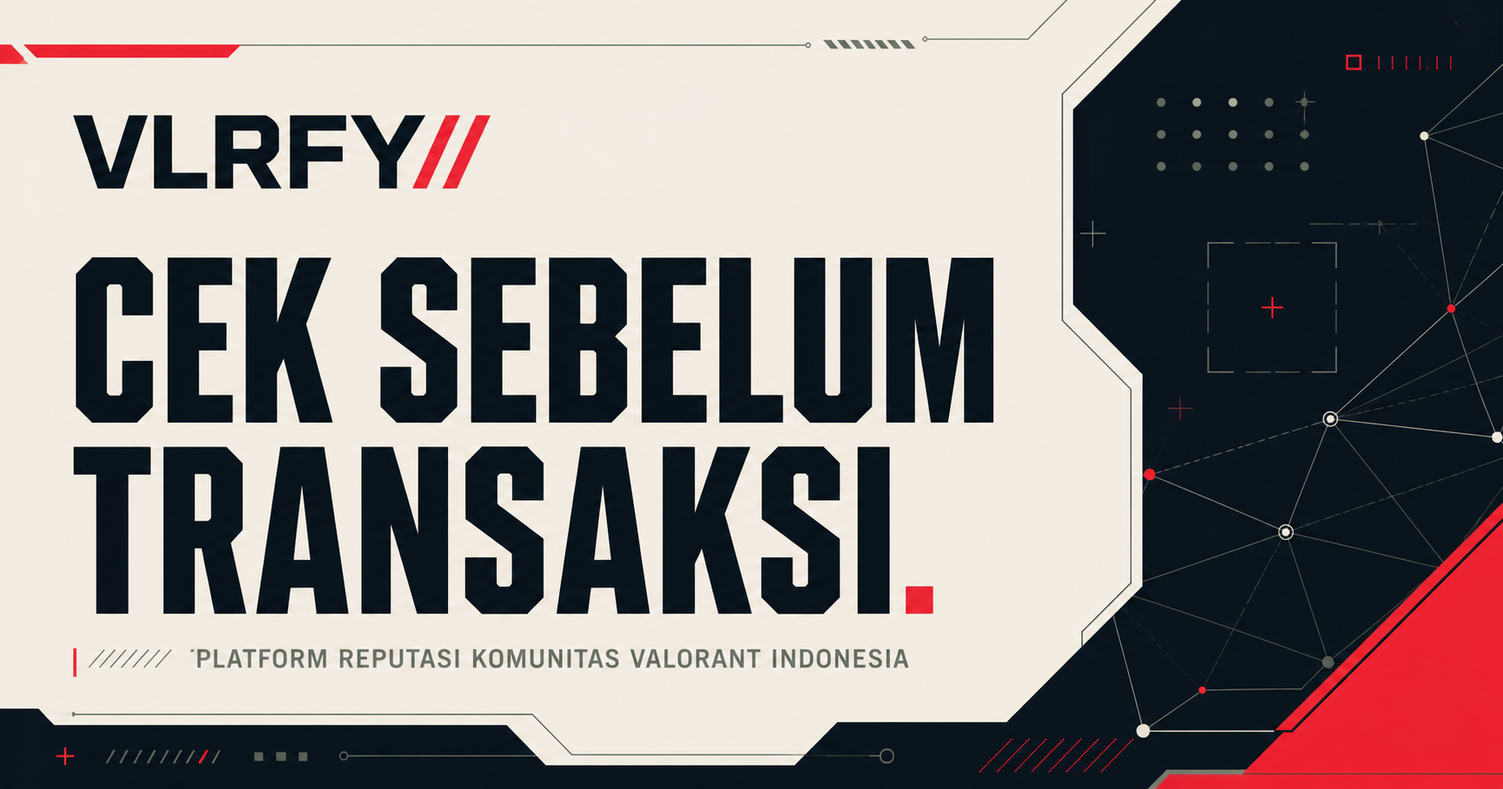
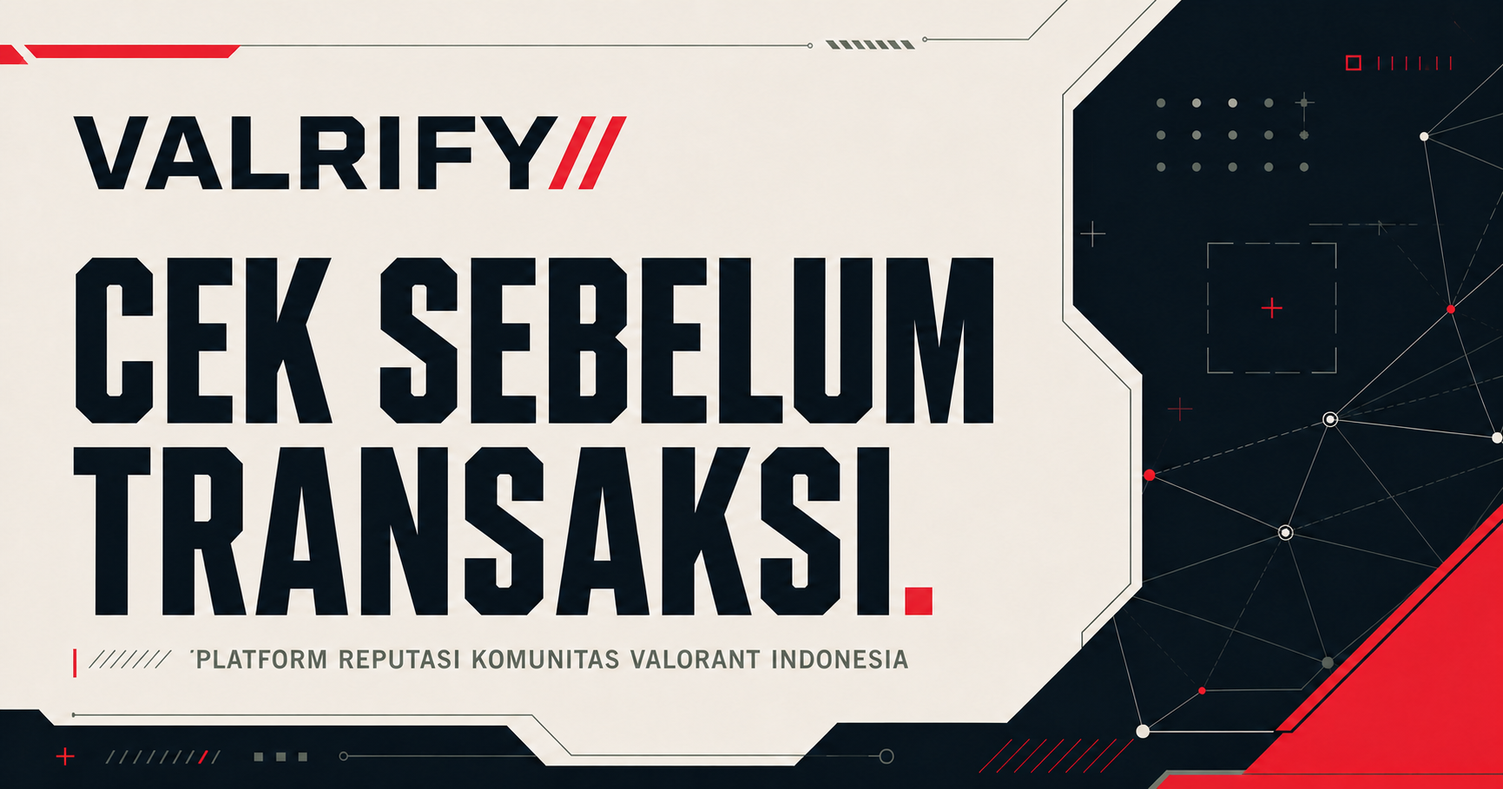
chore: rebrand VLRFY to Valrify

diff --git a/apps/api/test/rbac.test.ts b/apps/api/test/rbac.test.ts
@@ -1,1 +1,1 @@
-import assert from "node:assert/strict";import test from "node:test";import {BadRequestException} from "@nestjs/common";import {canModerate,canTransition} from "@vlrfy/domain";import {confirmationReviewSchema,confirmationSchema,reportSchema} from "@vlrfy/validation";import {parseSchema} from "../src/validation/parse-schema";test("moderation roles and publish lifecycle",()=>{assert.equal(canModerate("USER"),false);assert.equal(canModerate("ADMIN"),true);assert.equal(canTransition("SUBMITTED","PUBLISHED"),false);assert.equal(canTransition("VERIFIED","PUBLISHED"),true)});test("successful transaction input is constrained",()=>{assert.equal(confirmationSchema.safeParse({entityId:1,transactionDate:"2026-08-20",amount:300000,note:"Transaksi demo berhasil."}).success,true);assert.equal(confirmationSchema.safeParse({entityId:1,transactionDate:"bad",amount:-1,note:"pendek"}).success,false)});test("reports accept multiple account identifiers",()=>{const result=reportSchema.safeParse({entityName:"Seller Demo",title:"Akun tidak dikirim",chronology:"Kronologi transaksi ini cukup panjang untuk memenuhi validasi laporan dan menjelaskan kejadian secara lengkap.",identifiers:JSON.stringify([{type:"PHONE",value:"081234567890"},{type:"BANK_ACCOUNT",value:"1234567890",provider:"BCA"}]),transactionDate:"2026-08-20",allegedLoss:"1000000",transactionType:"ACCOUNT_PURCHASE"});assert.equal(result.success,true);if(result.success)assert.equal(result.data.identifiers.length,2)});test("schema errors become HTTP 400",()=>{assert.throws(()=>parseSchema(confirmationReviewSchema,{decision:"APPROVE",rationale:"x"}),(error)=>error instanceof BadRequestException&&error.getStatus()===400)});
+import assert from "node:assert/strict";import test from "node:test";import {BadRequestException} from "@nestjs/common";import {canModerate,canTransition} from "@valrify/domain";import {confirmationReviewSchema,confirmationSchema,reportSchema} from "@valrify/validation";import {parseSchema} from "../src/validation/parse-schema";test("moderation roles and publish lifecycle",()=>{assert.equal(canModerate("USER"),false);assert.equal(canModerate("ADMIN"),true);assert.equal(canTransition("SUBMITTED","PUBLISHED"),false);assert.equal(canTransition("VERIFIED","PUBLISHED"),true)});test("successful transaction input is constrained",()=>{assert.equal(confirmationSchema.safeParse({entityId:1,transactionDate:"2026-08-20",amount:300000,note:"Transaksi demo berhasil."}).success,true);assert.equal(confirmationSchema.safeParse({entityId:1,transactionDate:"bad",amount:-1,note:"pendek"}).success,false)});test("reports accept multiple account identifiers",()=>{const result=reportSchema.safeParse({entityName:"Seller Demo",title:"Akun tidak dikirim",chronology:"Kronologi transaksi ini cukup panjang untuk memenuhi validasi laporan dan menjelaskan kejadian secara lengkap.",identifiers:JSON.stringify([{type:"PHONE",value:"081234567890"},{type:"BANK_ACCOUNT",value:"1234567890",provider:"BCA"}]),transactionDate:"2026-08-20",allegedLoss:"1000000",transactionType:"ACCOUNT_PURCHASE"});assert.equal(result.success,true);if(result.success)assert.equal(result.data.identifiers.length,2)});test("schema errors become HTTP 400",()=>{assert.throws(()=>parseSchema(confirmationReviewSchema,{decision:"APPROVE",rationale:"x"}),(error)=>error instanceof BadRequestException&&error.getStatus()===400)});

diff --git a/apps/web/app/search/page.tsx b/apps/web/app/search/page.tsx
@@ -1,5 +1,5 @@
 import Link from "next/link";
-import { labelIdentifierType } from "@vlrfy/domain";
+import { labelIdentifierType } from "@valrify/domain";
 import { searchPublic } from "../../lib/api";
 import { Disclaimer, Footer, Header } from "../components/SiteChrome";
 import { RiskBadge } from "../components/RiskBadge";
@@ -12,7 +12,7 @@ export default async function SearchPage({ searchParams }: { searchParams: Promi
   return <><Header compact/><main className="page shell">
     <p className="eyebrow">// CEK SEBELUM TRANSAKSI</p><h1 className="page-title">CEK NOMOR ATAU AKUN.</h1>
     <form action="/search" className="page-search"><label className="sr-only" htmlFor="search-q">Masukkan nomor atau akun</label><input id="search-q" name="q" defaultValue={q} placeholder="Nomor, rekening, Discord, Facebook, Riot ID..." required/><button>CEK SEKARANG ↗</button></form>
-    {q&&<section className="results"><p className="result-query">HASIL UNTUK <strong>“{q}”</strong></p>{results.length===0?<div className="empty-state"><span>00</span><h2>BELUM ADA CATATAN.</h2><p>Nomor atau akun ini belum ditemukan di VLRFY. Bukan berarti pasti aman—tetap cek identitas dan pakai rekber kalau perlu.</p><Link href="/submit" className="tactical-button">BUAT LAPORAN</Link></div>:results.map((result)=><article className="result-card" key={`${result.identifierId}-${result.entityId}`}><div><p className="panel-index">DATA COCOK · {labelIdentifierType(result.type)}</p><h2>{result.displayName}</h2><p className="matched-id">{result.maskedValue}</p></div><RiskBadge count={Number(result.reportCount)}/><div className="result-metrics"><div className="result-meta"><strong>{result.reportCount}</strong><span>LAPORAN SUDAH DICEK</span></div><div className="result-meta positive"><strong>{result.successfulTransactionCount}</strong><span>TESTI TRANSAKSI</span></div></div><Link className="card-link" href={`/entity/${result.slug}`}>BUKA PROFIL ↗</Link></article>)}</section>}
+    {q&&<section className="results"><p className="result-query">HASIL UNTUK <strong>“{q}”</strong></p>{results.length===0?<div className="empty-state"><span>00</span><h2>BELUM ADA CATATAN.</h2><p>Nomor atau akun ini belum ditemukan di Valrify. Bukan berarti pasti aman—tetap cek identitas dan pakai rekber kalau perlu.</p><Link href="/submit" className="tactical-button">BUAT LAPORAN</Link></div>:results.map((result)=><article className="result-card" key={`${result.identifierId}-${result.entityId}`}><div><p className="panel-index">DATA COCOK · {labelIdentifierType(result.type)}</p><h2>{result.displayName}</h2><p className="matched-id">{result.maskedValue}</p></div><RiskBadge count={Number(result.reportCount)}/><div className="result-metrics"><div className="result-meta"><strong>{result.reportCount}</strong><span>LAPORAN SUDAH DICEK</span></div><div className="result-meta positive"><strong>{result.successfulTransactionCount}</strong><span>TESTI TRANSAKSI</span></div></div><Link className="card-link" href={`/entity/${result.slug}`}>BUKA PROFIL ↗</Link></article>)}</section>}
     <Disclaimer/>
   </main><Footer/></>;
 }

diff --git a/apps/web/app/case/[publicId]/page.tsx b/apps/web/app/case/[publicId]/page.tsx
@@ -1,4 +1,4 @@
-import type { Metadata } from "next";import Link from "next/link";import { notFound } from "next/navigation";import { Header,Footer,Disclaimer } from "../../components/SiteChrome";import { formatRupiah,labelIdentifierType } from "@vlrfy/domain";import { getPublicCase } from "../../../lib/api";
+import type { Metadata } from "next";import Link from "next/link";import { notFound } from "next/navigation";import { Header,Footer,Disclaimer } from "../../components/SiteChrome";import { formatRupiah,labelIdentifierType } from "@valrify/domain";import { getPublicCase } from "../../../lib/api";
 export const dynamic="force-dynamic";
-export async function generateMetadata({params}:{params:Promise<{publicId:string}>}):Promise<Metadata>{const{publicId}=await params;const r=await getPublicCase(publicId);if(!r)return{title:'Laporan tidak ditemukan'};const description=String(r.publicSummary);return{title:`Case ${r.publicId}`,description,openGraph:{title:`Case ${r.publicId} — VLRFY`,description,images:[]},twitter:{card:'summary',title:`Case ${r.publicId} — VLRFY`,description,images:[]}}}
+export async function generateMetadata({params}:{params:Promise<{publicId:string}>}):Promise<Metadata>{const{publicId}=await params;const r=await getPublicCase(publicId);if(!r)return{title:'Laporan tidak ditemukan'};const description=String(r.publicSummary);return{title:`Case ${r.publicId}`,description,openGraph:{title:`Case ${r.publicId} — Valrify`,description,images:[]},twitter:{card:'summary',title:`Case ${r.publicId} — Valrify`,description,images:[]}}}
 export default async function CasePage({params}:{params:Promise<{publicId:string}>}){const{publicId}=await params;const r=await getPublicCase(publicId);if(!r)notFound();return <><Header compact/><main className="page shell"><div className="case-heading"><div><p className="eyebrow">LAPORAN // {String(r.publicId)}</p><h1 className="page-title">{String(r.title).toUpperCase()}</h1></div><span className="status-badge">SUDAH DICEK ADMIN</span></div><section className="case-layout"><article className="case-body"><p className="panel-index">CERITA SINGKAT</p><p className="summary">{String(r.publicSummary)}</p><p className="source-line">DIKIRIM PENGGUNA · NAMA PELAPOR DISEMBUNYIKAN</p></article><aside className="case-facts"><div><span>STATUS</span><strong>TAYANG</strong></div><div><span>TANGGAL KEJADIAN</span><strong>{String(r.transactionDate||'Tidak dicantumkan')}</strong></div><div><span>UANG YANG DILAPORKAN HILANG</span><strong>{formatRupiah(Number(r.allegedLoss))}</strong></div><div><span>AKUN TERKAIT</span><Link href={`/entity/${r.slug}`}>{String(r.entityName)} ↗</Link></div></aside></section><section className="data-panel case-identifiers"><h2>NOMOR / AKUN TERKAIT</h2>{(r.identifiers as Array<{type:string;maskedValue:string}>).map((id,i)=><div className="identifier-row" key={i}><span>{labelIdentifierType(id.type)}</span><strong>{id.maskedValue}</strong></div>)}</section><Disclaimer/></main><Footer/></>}

diff --git a/apps/api/src/database/seed.ts b/apps/api/src/database/seed.ts
@@ -2,7 +2,7 @@ import { hash } from "bcryptjs";
 import { and, eq } from "drizzle-orm";
 import { drizzle } from "drizzle-orm/node-postgres";
 import { Pool } from "pg";
-import { maskIdentifier, normalizeIdentifier } from "@vlrfy/domain";
+import { maskIdentifier, normalizeIdentifier } from "@valrify/domain";
 import {
   entities,
   entityIdentifiers,
@@ -19,12 +19,12 @@ async function seed() {
   const pool = new Pool({
     connectionString:
       process.env.DATABASE_URL ??
-      "postgresql://vlrfy:vlrfy_dev@localhost:5434/vlrfy",
+      "postgresql://valrify:valrify_dev@localhost:5434/valrify",
   });
   const db = drizzle(pool);
-  const adminEmail = process.env.VLRFY_ADMIN_EMAIL ?? "admin@vlrfy.local";
+  const adminEmail = process.env.VALRIFY_ADMIN_EMAIL ?? "admin@valrify.local";
   const passwordHash = await hash(
-    process.env.VLRFY_DEMO_PASSWORD ?? "DemoPass!2026",
+    process.env.VALRIFY_DEMO_PASSWORD ?? "DemoPass!2026",
     12,
   );
 
@@ -34,14 +34,14 @@ async function seed() {
       {
         id: "demo-admin",
         email: adminEmail,
-        displayName: "Admin VLRFY",
+        displayName: "Admin Valrify",
         passwordHash,
         role: "ADMIN",
         emailVerifiedAt: new Date(),
       },
       {
         id: "demo-reporter",
-        email: "reporter.demo@vlrfy.invalid",
+        email: "reporter.demo@valrify.invalid",
         displayName: "Anggota Demo",
         role: "USER",
         emailVerifiedAt: new Date(),
@@ -53,7 +53,7 @@ async function seed() {
     .insert(users)
     .values({
       id: "demo-tester",
-      email: "tester@vlrfy.local",
+      email: "tester@valrify.local",
       displayName: "User Tester",
       passwordHash,
       role: "USER",
@@ -75,7 +75,7 @@ async function seed() {
       slug: "arkanusa-demo",
       displayName: "ArkaNusa Demo",
       description:
-        "Profil fiktif untuk demonstrasi data pengembangan VLRFY.",
+        "Profil fiktif untuk demonstrasi data pengembangan Valrify.",
     })
     .onConflictDoNothing();
   const entity = (
@@ -87,7 +87,7 @@ async function seed() {
     { type: "PERSON_NAME" as const, rawValue: "ArkaNusa Demo" },
     { type: "PHONE" as const, rawValue: "0800 0000 0901" },
     { type: "DISCORD" as const, rawValue: "arkanusa.demo" },
-    { type: "RIOT_ID" as const, rawValue: "ArkaDemo#VLRFY" },
+    { type: "RIOT_ID" as const, rawValue: "ArkaDemo#VALRIFY" },
   ];
   const identifierRows: Array<typeof identifiers.$inferSelect> = [];
   for (const item of demoIdentifiers) {
@@ -185,7 +185,7 @@ async function seed() {
   }
 
   await pool.end();
-  console.log("VLRFY fictional seed ready");
+  console.log("Valrify fictional seed ready");
 }
 
 seed().catch((error) => {

diff --git a/apps/api/src/auth/auth.controller.ts b/apps/api/src/auth/auth.controller.ts
@@ -1,8 +1,8 @@
-import { Body,Controller,Get,HttpCode,Post,Req,Res,UseGuards } from "@nestjs/common";import type { Request,Response } from "express";import { loginSchema,registerSchema } from "@vlrfy/validation";import { parseSchema } from "../validation/parse-schema";import { AuthService } from "./auth.service";import { CurrentActor } from "./current-actor";import { JwtAuthGuard } from "./jwt-auth.guard";import type { AuthActor } from "./auth.types";
+import { Body,Controller,Get,HttpCode,Post,Req,Res,UseGuards } from "@nestjs/common";import type { Request,Response } from "express";import { loginSchema,registerSchema } from "@valrify/validation";import { parseSchema } from "../validation/parse-schema";import { AuthService } from "./auth.service";import { CurrentActor } from "./current-actor";import { JwtAuthGuard } from "./jwt-auth.guard";import type { AuthActor } from "./auth.types";
 const cookieOptions=()=>({httpOnly:true,secure:process.env.NODE_ENV==="production",sameSite:"lax" as const,path:"/",maxAge:7*24*60*60*1000});
 @Controller("auth")export class AuthController{constructor(private readonly auth:AuthService){}
 @Post("register")register(@Body()body:unknown){return this.auth.register(parseSchema(registerSchema,body));}
 @Post("verify-email")verify(@Body()body:{token?:string}){return this.auth.verifyEmail(String(body.token??""));}
-@Post("login")@HttpCode(200)async login(@Body()body:unknown,@Res({passthrough:true})response:Response){const result=await this.auth.login(parseSchema(loginSchema,body));response.cookie("vlrfy_session",result.token,cookieOptions());return{user:result.actor};}
-@Post("logout")@HttpCode(200)logout(@Res({passthrough:true})response:Response){response.clearCookie("vlrfy_session",{path:"/"});return{ok:true};}
+@Post("login")@HttpCode(200)async login(@Body()body:unknown,@Res({passthrough:true})response:Response){const result=await this.auth.login(parseSchema(loginSchema,body));response.cookie("valrify_session",result.token,cookieOptions());return{user:result.actor};}
+@Post("logout")@HttpCode(200)logout(@Res({passthrough:true})response:Response){response.clearCookie("valrify_session",{path:"/"});return{ok:true};}
 @Get("me")@UseGuards(JwtAuthGuard)me(@CurrentActor()actor:AuthActor,@Req()_request:Request){return{user:actor};}}

diff --git a/apps/api/src/auth/auth.service.ts b/apps/api/src/auth/auth.service.ts
@@ -1,4 +1,4 @@
-import { BadRequestException, Injectable, UnauthorizedException } from "@nestjs/common";import { JwtService } from "@nestjs/jwt";import { and,eq,gt } from "drizzle-orm";import { compare,hash } from "bcryptjs";import { createHash,randomBytes,randomUUID } from "node:crypto";import { DatabaseService } from "../database/database.service";import { emailVerificationTokens,users } from "../database/schema";import type { LoginInput,RegisterInput } from "@vlrfy/validation";import type { AuthActor } from "./auth.types";
+import { BadRequestException, Injectable, UnauthorizedException } from "@nestjs/common";import { JwtService } from "@nestjs/jwt";import { and,eq,gt } from "drizzle-orm";import { compare,hash } from "bcryptjs";import { createHash,randomBytes,randomUUID } from "node:crypto";import { DatabaseService } from "../database/database.service";import { emailVerificationTokens,users } from "../database/schema";import type { LoginInput,RegisterInput } from "@valrify/validation";import type { AuthActor } from "./auth.types";
 const tokenHash=(token:string)=>createHash("sha256").update(token).digest("hex");
 @Injectable()export class AuthService{constructor(private readonly database:DatabaseService,private readonly jwt:JwtService){}
 async register(input:RegisterInput){const email=input.email.toLowerCase();const existing=await this.database.db.query.users.findFirst({where:eq(users.email,email)});if(existing)throw new BadRequestException("Email sudah terdaftar.");const id=randomUUID();const passwordHash=await hash(input.password,12);await this.database.db.insert(users).values({id,email,displayName:input.displayName,passwordHash});const token=randomBytes(32).toString("hex");await this.database.db.insert(emailVerificationTokens).values({userId:id,tokenHash:tokenHash(token),expiresAt:new Date(Date.now()+24*60*60*1000)});return{message:"Akun dibuat. Verifikasi email sebelum masuk.",...(process.env.NODE_ENV!=="production"?{developmentVerificationToken:token}:{})};}

diff --git a/apps/web/app/components/SiteChrome.tsx b/apps/web/app/components/SiteChrome.tsx
@@ -2,7 +2,7 @@ import Link from "next/link";
 import { SessionNav } from "./SessionNav";
 
 export function Header({ compact=false }:{compact?:boolean}) {
-  return <header className={`site-header shell ${compact?"compact":""}`}><Link className="wordmark" href="/" aria-label="VLRFY beranda">VLRFY<span>{"//"}</span></Link><nav aria-label="Navigasi utama"><Link href="/search">CEK</Link><Link href="/methodology">CARA BACA</Link><SessionNav/><Link href="/submit" className="nav-report">LAPORKAN</Link></nav></header>;
+  return <header className={`site-header shell ${compact?"compact":""}`}><Link className="wordmark" href="/" aria-label="Valrify beranda">VALRIFY<span>{"//"}</span></Link><nav aria-label="Navigasi utama"><Link href="/search">CEK</Link><Link href="/methodology">CARA BACA</Link><SessionNav/><Link href="/submit" className="nav-report">LAPORKAN</Link></nav></header>;
 }
-export function Footer(){return <footer className="shell"><div className="wordmark">VLRFY<span>{"//"}</span></div><p>Cek riwayat penjual atau pembeli akun Valorant sebelum transaksi.</p><small>VLRFY by reyv · © 2026</small></footer>}
-export function Disclaimer(){return <aside className="inline-disclaimer"><strong>INGAT</strong><span>VLRFY cuma menampilkan laporan dan testi yang sudah dicek admin. Ini bukan putusan hukum dan bukan jaminan transaksi pasti aman.</span></aside>}
+export function Footer(){return <footer className="shell"><div className="wordmark">VALRIFY<span>{"//"}</span></div><p>Cek riwayat penjual atau pembeli akun Valorant sebelum transaksi.</p><small>Valrify by reyv · © 2026</small></footer>}
+export function Disclaimer(){return <aside className="inline-disclaimer"><strong>INGAT</strong><span>Valrify cuma menampilkan laporan dan testi yang sudah dicek admin. Ini bukan putusan hukum dan bukan jaminan transaksi pasti aman.</span></aside>}

diff --git a/apps/web/app/methodology/page.tsx b/apps/web/app/methodology/page.tsx
@@ -1,2 +1,2 @@
 import {Header,Footer,Disclaimer} from "../components/SiteChrome";
-export default function Methodology(){return <><Header compact/><main className="page shell narrow"><p className="eyebrow">// CARA BACA HASIL</p><h1 className="page-title">ANGKANYA GAMPANG.</h1><p className="page-intro">VLRFY tidak menebak-nebak dan tidak memakai skor rahasia. Tandanya cuma dihitung dari jumlah laporan yang sudah dicek admin lalu ditayangkan.</p><section className="method-list"><article><span>00</span><h2>TIDAK ADA LAPORAN</h2><p>Belum ada laporan yang lolos pengecekan admin. Bukan berarti pasti aman.</p></article><article><span>01</span><h2>PERLU PERHATIAN</h2><p>Ada 1 laporan yang sudah dicek admin. Baca laporannya sebelum lanjut transaksi.</p></article><article><span>02+</span><h2>RISIKO TINGGI</h2><p>Ada 2 laporan atau lebih yang sudah dicek admin. Sebaiknya jangan buru-buru transaksi.</p></article></section><Disclaimer/></main><Footer/></>}
+export default function Methodology(){return <><Header compact/><main className="page shell narrow"><p className="eyebrow">// CARA BACA HASIL</p><h1 className="page-title">ANGKANYA GAMPANG.</h1><p className="page-intro">Valrify tidak menebak-nebak dan tidak memakai skor rahasia. Tandanya cuma dihitung dari jumlah laporan yang sudah dicek admin lalu ditayangkan.</p><section className="method-list"><article><span>00</span><h2>TIDAK ADA LAPORAN</h2><p>Belum ada laporan yang lolos pengecekan admin. Bukan berarti pasti aman.</p></article><article><span>01</span><h2>PERLU PERHATIAN</h2><p>Ada 1 laporan yang sudah dicek admin. Baca laporannya sebelum lanjut transaksi.</p></article><article><span>02+</span><h2>RISIKO TINGGI</h2><p>Ada 2 laporan atau lebih yang sudah dicek admin. Sebaiknya jangan buru-buru transaksi.</p></article></section><Disclaimer/></main><Footer/></>}

diff --git a/apps/api/src/reports/reports.controller.ts b/apps/api/src/reports/reports.controller.ts
@@ -1,3 +1,3 @@
-import { BadRequestException,Body,Controller,Post,UploadedFiles,UseGuards,UseInterceptors } from "@nestjs/common";import { FilesInterceptor } from "@nestjs/platform-express";import { reportSchema } from "@vlrfy/validation";import { CurrentActor } from "../auth/current-actor";import { JwtAuthGuard } from "../auth/jwt-auth.guard";import type { AuthActor } from "../auth/auth.types";import { parseSchema } from "../validation/parse-schema";import { ReportsService } from "./reports.service";
+import { BadRequestException,Body,Controller,Post,UploadedFiles,UseGuards,UseInterceptors } from "@nestjs/common";import { FilesInterceptor } from "@nestjs/platform-express";import { reportSchema } from "@valrify/validation";import { CurrentActor } from "../auth/current-actor";import { JwtAuthGuard } from "../auth/jwt-auth.guard";import type { AuthActor } from "../auth/auth.types";import { parseSchema } from "../validation/parse-schema";import { ReportsService } from "./reports.service";
 const allowed=new Set(["image/png","image/jpeg","image/webp","application/pdf"]);
 @Controller("reports")export class ReportsController{constructor(private readonly reports:ReportsService){}@Post()@UseGuards(JwtAuthGuard)@UseInterceptors(FilesInterceptor("evidence",5,{limits:{fileSize:5*1024*1024},fileFilter:(_req,file,callback)=>callback(allowed.has(file.mimetype)?null:new BadRequestException("Tipe file tidak didukung."),allowed.has(file.mimetype))}))create(@CurrentActor()actor:AuthActor,@Body()body:Record<string,string>,@UploadedFiles()files:Express.Multer.File[]=[]){if(!actor.emailVerified)throw new BadRequestException("Email harus terverifikasi.");if(!files.length)throw new BadRequestException("Minimal satu bukti wajib diunggah.");return this.reports.create(actor.id,parseSchema(reportSchema,body),files);}}

diff --git a/apps/web/app/page.tsx b/apps/web/app/page.tsx
@@ -5,7 +5,7 @@ export default function Home() {
   return (
     <main>
       <header className="site-header shell">
-        <Link className="wordmark" href="/" aria-label="VLRFY beranda">VLRFY<span>{"//"}</span></Link>
+        <Link className="wordmark" href="/" aria-label="Valrify beranda">VALRIFY<span>{"//"}</span></Link>
         <nav aria-label="Navigasi utama">
           <a href="#cara-kerja">CARA KERJA</a>
           <Link href="/methodology">CARA BACA</Link>
@@ -33,7 +33,7 @@ export default function Home() {
         </div>
       </section>
 
-      <section className="trust-strip" aria-label="Prinsip VLRFY">
+      <section className="trust-strip" aria-label="Prinsip Valrify">
         <div className="shell trust-grid">
           <p><strong>DICEK DULU</strong><span>Admin memeriksa laporan sebelum ditayangkan.</span></p>
           <p><strong>TIDAK ASAL TUDUH</strong><span>Ada laporan bukan berarti orangnya pasti menipu.</span></p>
@@ -52,13 +52,13 @@ export default function Home() {
 
       <section className="disclaimer shell">
         <p className="panel-index">CATATAN PENTING</p>
-        <p>VLRFY cuma menampilkan laporan dan testi yang sudah dicek admin. Ini bukan putusan hukum dan bukan jaminan transaksi pasti aman.</p>
+        <p>Valrify cuma menampilkan laporan dan testi yang sudah dicek admin. Ini bukan putusan hukum dan bukan jaminan transaksi pasti aman.</p>
       </section>
 
       <footer className="shell">
-        <div className="wordmark">VLRFY<span>{"//"}</span></div>
+        <div className="wordmark">VALRIFY<span>{"//"}</span></div>
         <p>Cek riwayat penjual atau pembeli akun Valorant sebelum transaksi.</p>
-        <small>VLRFY by reyv · © 2026</small>
+        <small>Valrify by reyv · © 2026</small>
       </footer>
     </main>
   );

diff --git a/apps/web/app/layout.tsx b/apps/web/app/layout.tsx
@@ -3,8 +3,8 @@ import { headers } from "next/headers";
 import "./globals.css";
 
 export async function generateMetadata():Promise<Metadata>{
-  const requestHeaders=await headers();const host=requestHeaders.get("x-forwarded-host")??requestHeaders.get("host")??"localhost:3000";const protocol=requestHeaders.get("x-forwarded-proto")??(host.startsWith("localhost")?"http":"https");const origin=`${protocol}://${host}`;const title="VLRFY — Cek Sebelum Transaksi";const description="Cek riwayat penjual atau pembeli akun Valorant sebelum transaksi.";
-  return {metadataBase:new URL(origin),title:{default:title,template:"%s — VLRFY"},description,icons:{icon:"/favicon.svg"},openGraph:{title,description,type:"website",locale:"id_ID",images:[{url:`${origin}/og.png`,width:1731,height:909,alt:"VLRFY — Cek Sebelum Transaksi"}]},twitter:{card:"summary_large_image",title,description,images:[`${origin}/og.png`]}};
+  const requestHeaders=await headers();const host=requestHeaders.get("x-forwarded-host")??requestHeaders.get("host")??"localhost:3000";const protocol=requestHeaders.get("x-forwarded-proto")??(host.startsWith("localhost")?"http":"https");const origin=`${protocol}://${host}`;const title="Valrify — Cek Sebelum Transaksi";const description="Cek riwayat penjual atau pembeli akun Valorant sebelum transaksi.";
+  return {metadataBase:new URL(origin),title:{default:title,template:"%s — Valrify"},description,icons:{icon:"/favicon.svg"},openGraph:{title,description,type:"website",locale:"id_ID",images:[{url:`${origin}/og.png`,width:1731,height:909,alt:"Valrify — Cek Sebelum Transaksi"}]},twitter:{card:"summary_large_image",title,description,images:[`${origin}/og.png`]}};
 }
 
 export default function RootLayout({ children }: Readonly<{ children: React.ReactNode }>) {

diff --git a/apps/web/lib/api.ts b/apps/web/lib/api.ts
@@ -1,5 +1,5 @@
 const API_URL=process.env.API_URL??process.env.NEXT_PUBLIC_API_URL??"http://localhost:3001/api";
-async function api<T>(path:string,init?:RequestInit):Promise<T|null>{try{const response=await fetch(`${API_URL}${path}`,{...init,cache:"no-store"});if(response.status===404)return null;if(!response.ok)throw new Error(`API ${response.status}`);return await response.json() as T;}catch(error){console.error("VLRFY API request failed",error);return null;}}
+async function api<T>(path:string,init?:RequestInit):Promise<T|null>{try{const response=await fetch(`${API_URL}${path}`,{...init,cache:"no-store"});if(response.status===404)return null;if(!response.ok)throw new Error(`API ${response.status}`);return await response.json() as T;}catch(error){console.error("Valrify API request failed",error);return null;}}
 export type SearchResult={identifierId:number;type:string;maskedValue:string;entityId:number;slug:string;displayName:string;reportCount:number;successfulTransactionCount:number};
 export type EntityResult={id:number;slug:string;displayName:string;description:string;createdAt:string;reportCount:number;successfulTransactionCount:number;identifiers:Array<{type:string;maskedValue:string}>;reports:Array<{publicId:string;title:string;publicSummary:string;allegedLoss:number;publishedAt:string}>;confirmations:Array<{id:number;transactionDate:string;amount:number;note:string}>};
 export type CaseResult={id:number;publicId:string;title:string;publicSummary:string;transactionDate:string|null;allegedLoss:number;transactionType:string;publishedAt:string;slug:string;entityName:string;identifiers:Array<{type:string;maskedValue:string}>};
